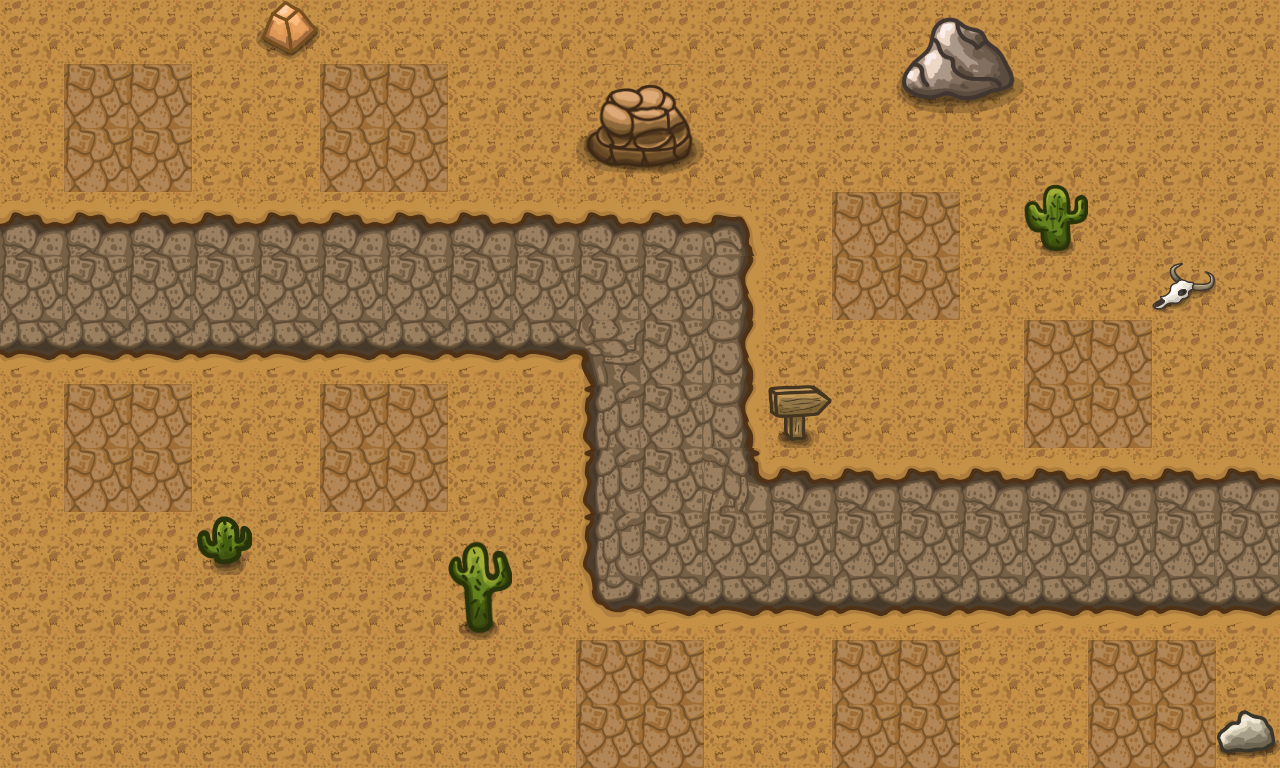
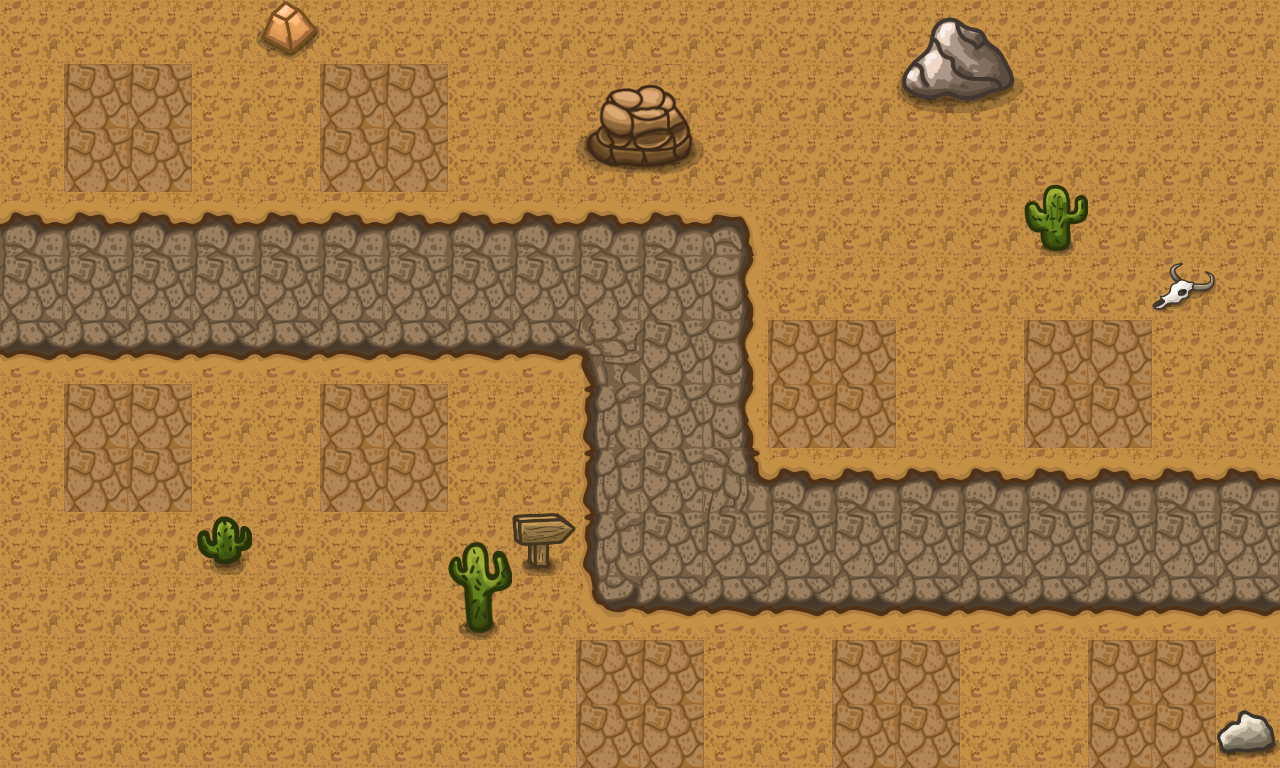
fix placement block   Fix off-range placement block

Changed region(s): [[0.5938, 0.25, 0.75, 0.5938], [0.4062, 0.6562, 0.4688, 0.75]]

diff --git a/modules/window.py b/modules/window.py
@@ -29,60 +29,60 @@ class CoordinateManager:
             {"x": 1360, "y": 534.666666666667},
         ]
         self._placement_blocks = [
-   {
-        "height":125,
-        "width":122,
-        "x":68,
-        "y":63
-    }, 
-    {
-        "height":125,
-        "width":125,
-        "x":322,
-        "y":65
-    }, 
-    {
-        "height":123,
-        "width":128,
-        "x":66,
-        "y":386
-    }, 
-    {
-        "height":124,
-        "width":126,
-        "x":321,
-        "y":385
-    }, 
-    {
-        "height":122,
-        "width":125,
-        "x":834,
-        "y":195
-    }, 
-    {
-        "height":122,
-        "width":124,
-        "x":1027,
-        "y":323
-    }, 
-    {
-        "height":124,
-        "width":124,
-        "x":578,
-        "y":643
-    }, 
-    {
-        "height":122,
-        "width":123,
-        "x":836,
-        "y":643
-    }, 
-    {
-        "height":126,
-        "width":123,
-        "x":1093,
-        "y":642
-    }]
+                {
+                 "height":125,
+                 "width":122,
+                 "x":68,
+                 "y":63
+                }, 
+                {
+                 "height":125,
+                 "width":125,
+                 "x":322,
+                 "y":65
+                }, 
+                {
+                 "height":123,
+                 "width":128,
+                 "x":66,
+                 "y":386
+                }, 
+                {
+                 "height":124,
+                 "width":126,
+                 "x":321,
+                 "y":385
+                }, 
+                {
+                 "height":122,
+                 "width":124,
+                 "x":1027,
+                 "y":323
+                }, 
+                {
+                 "height":124,
+                 "width":124,
+                 "x":578,
+                 "y":643
+                }, 
+                {
+                 "height":122,
+                 "width":123,
+                 "x":836,
+                 "y":643
+                }, 
+                {
+                 "height":126,
+                 "width":123,
+                 "x":1093,
+                 "y":642
+                }, 
+                {
+                 "height":128,
+                 "width":127,
+                 "x":769,
+                 "y":320
+                }]
         
     # check if tile coordinate in a placement tile range
     def is_coordinate_valid_placement_point(self, x, y, coordinates):
